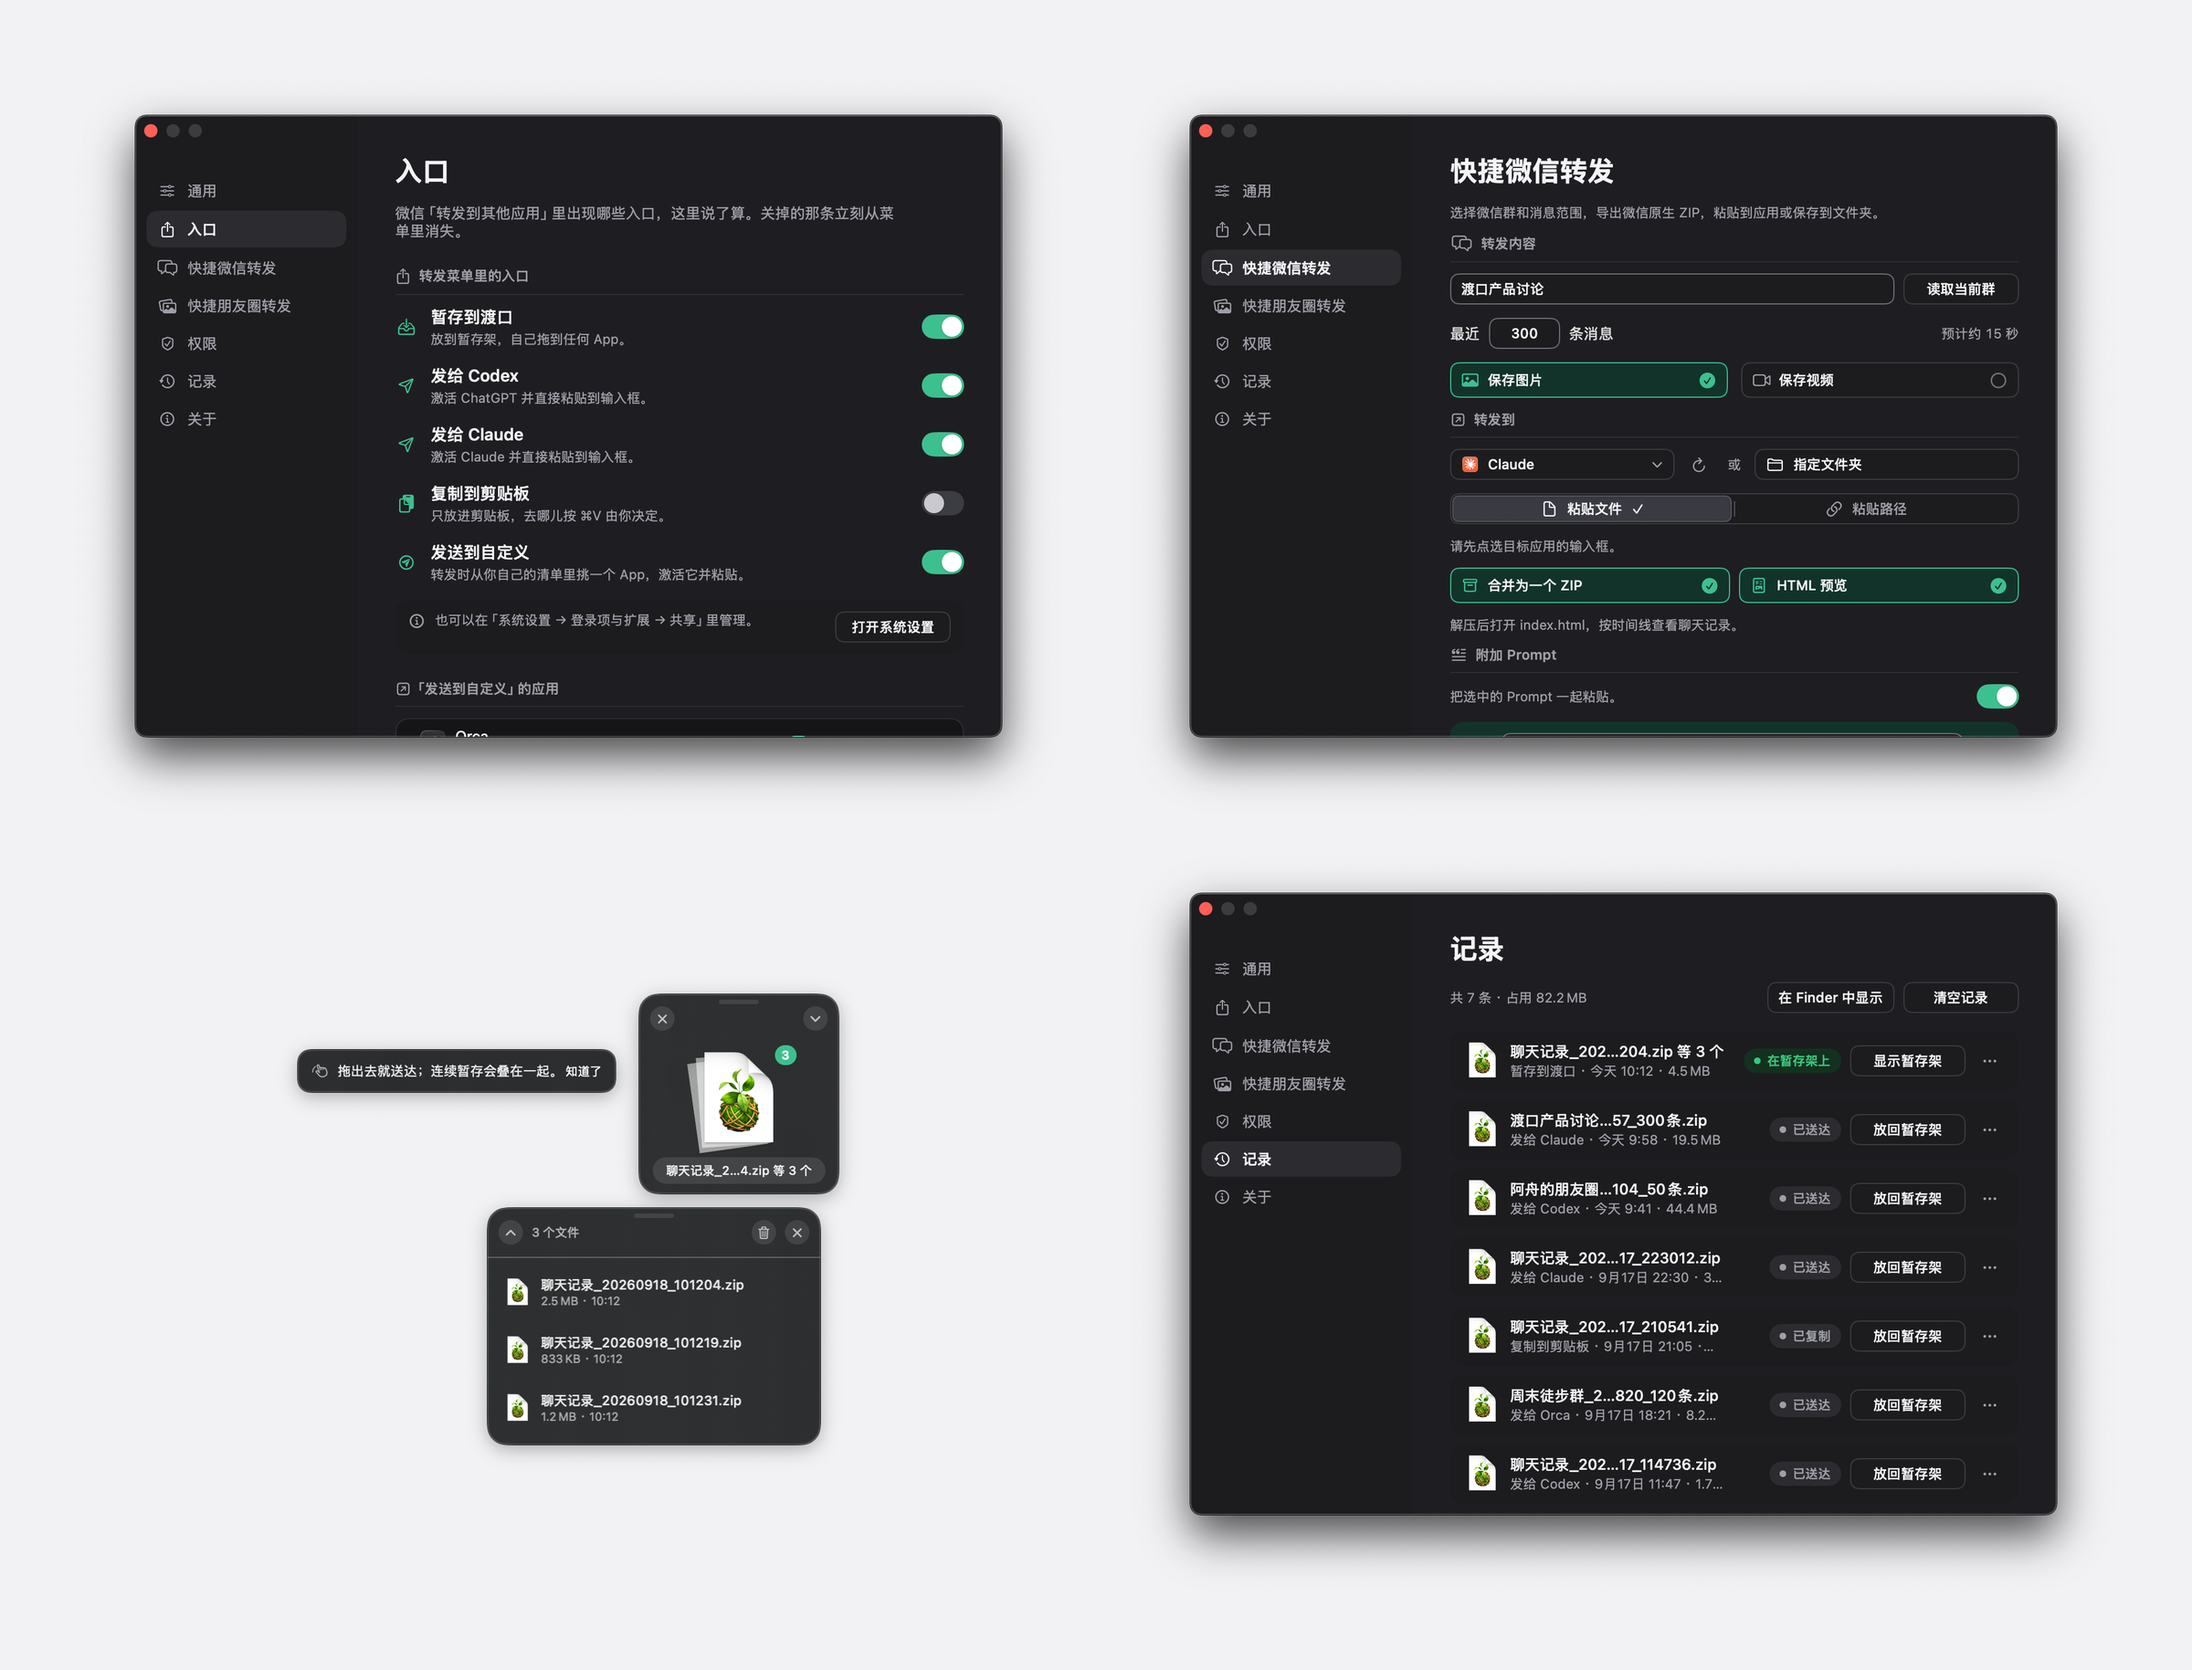
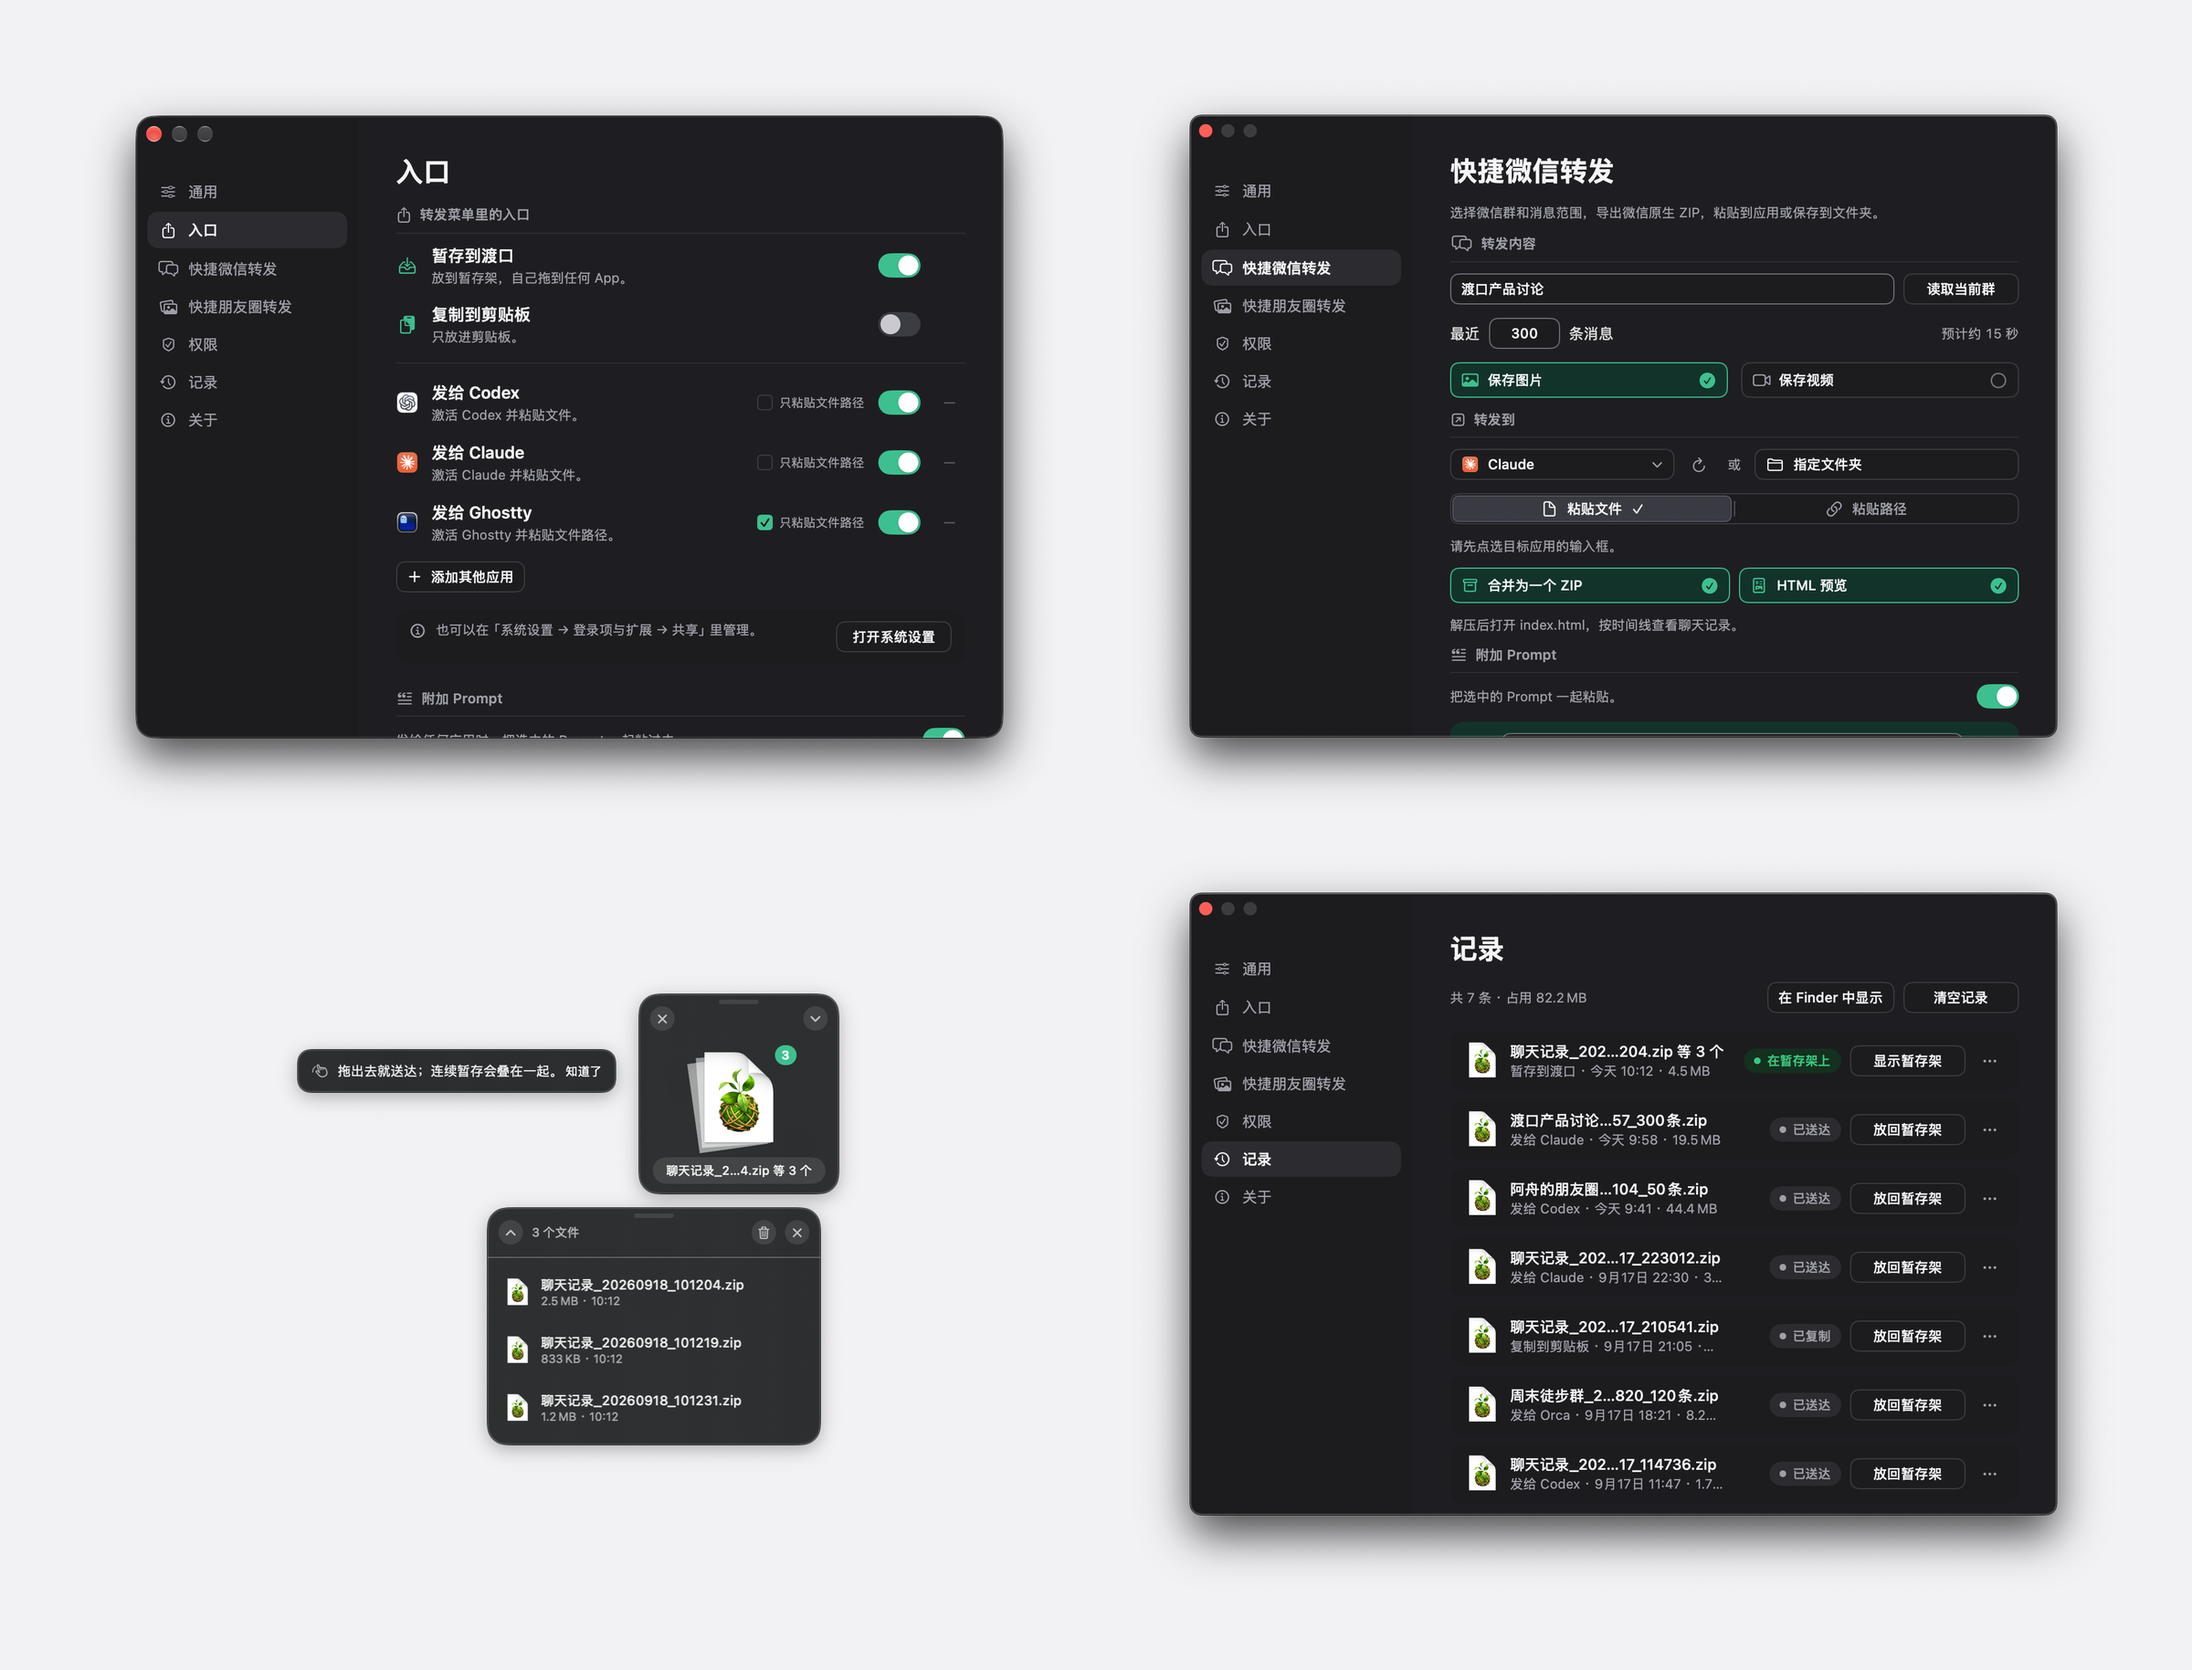
Show one entry per app in the README and the overview's 入口 pane

diff --git a/README_EN.md b/README_EN.md
@@ -13,7 +13,7 @@
 </div>
 
 <p align="center">
-  <img src="Resources/Screenshots/wechat-forward.png" width="720" alt="WeChat 4.1.13's forward-to-other-apps menu, with Dukou's five entries listed beside the system share services" />
+  <img src="Resources/Screenshots/wechat-forward.png" width="720" alt="WeChat 4.1.13's forward-to-other-apps menu, with Dukou's entries beside the system share services, each app shown with its own icon" />
 </p>
 
 <p align="center">
@@ -28,26 +28,24 @@
 
 Since WeChat 4.1.13 for macOS, a multi-selection of chat history can be merge-forwarded to third-party apps: WeChat itself packs the text, images and videos into one ZIP with a time-ordered TXT transcript. That is exactly what an AI agent needs to read a complete stream of a conversation, and it involves no database and no keys: the content only ever travels as the file WeChat exported.
 
-The catch is that the "Other Apps" list in the forward window ("Forward to Other Apps" in WeChat 4.1.13) only shows apps that ship a share extension. Finder is not there, nor Terminal, nor Codex or Claude. Dukou puts them there. The forward menu gains five entries, and each one goes straight where it says:
+The catch is that the "Other Apps" list in the forward window ("Forward to Other Apps" in WeChat 4.1.13) only shows apps that ship a share extension. Finder is not there, nor Terminal, nor Codex or Claude. Dukou puts them there, and each entry goes straight where it says:
 
 | Entry | What it does |
 |---|---|
 | **Stash in Dukou** | Lands on the shelf in a corner of the screen; drag from the icon into any app |
-| **Send to Codex** | Brings ChatGPT forward and pastes into its input |
-| **Send to Claude** | Brings Claude forward and pastes into its input |
 | **Copy to Clipboard** | Just puts it on the clipboard; the ⌘V is yours |
-| **Send to Custom** | Your own list of apps: one app just goes, two or more get a small picker card next to the pointer |
+| **Send to Codex / Claude / any app** | One entry per app, with the app's own icon: brings it forward and pastes into its input. Codex and Claude are there from the start; add others in Settings → Entries |
 
 One step further, Quick WeChat forward and Quick Moments forward (experimental) do the selecting, exporting and pasting for you — just name what you want and how much of it.
 
 ## Features
 
 - **No interface in the extension.** Pick an entry and the files just land; nothing appears on screen.
-- **Entries you can switch off.** Each entry is a separate system extension, toggled in Settings → Entries.
+- **Entries you can switch off.** Each entry is a separate system extension, toggled in Settings → Entries; removing an app removes its entry from the system too.
 - **A shelf.** A floating square in a screen corner that never takes focus; drag out and it is consumed, the files move to History.
 - **History that cleans itself.** Batches older than the retention window (7 days by default) go to the Trash and can be put back on the shelf.
-- **Send to any app.** Keep your own list under Send to Custom; terminal-like apps can receive file paths instead. Tick Direct entry and the app gets its own "Send to …" item, with its icon, in WeChat's menu.
-- **Attached prompt.** A prompt of your own is pasted before the files when sending to Codex, Claude or a custom app; keep up to three.
+- **Send to any app.** Add an app in Settings → Entries and WeChat's menu gains a "Send to …" item with its icon; terminal-like apps can receive file paths instead.
+- **Attached prompt.** A prompt of your own is pasted before the files when sending to any app; keep up to three.
 - **Failures have a way out.** App missing, permission missing or app not in front: the files are already on the clipboard and can go to the shelf.
 - **Quick WeChat forward (experimental).** Name a group and a count; Dukou selects and merge-forwards in WeChat, then pastes the ZIP into the current app or saves it to a folder. Photos and videos are optional, batches past 100 can be combined into one ZIP, and ESC stops it.
 - **Offline HTML preview.** An `index.html` inside the ZIP for browsing the chat as bubbles in your browser: search, filter by date, view images, play audio and video.

diff --git a/README.md b/README.md
@@ -13,7 +13,7 @@
 </div>
 
 <p align="center">
-  <img src="Resources/Screenshots/wechat-forward.png" width="720" alt="微信 4.1.13 的「转发到其他应用」菜单：Dukou 的五条入口和系统自带的共享服务排在一起" />
+  <img src="Resources/Screenshots/wechat-forward.png" width="720" alt="微信 4.1.13 的「转发到其他应用」菜单：Dukou 的入口和系统自带的共享服务排在一起，发给哪个 App 就显示哪个 App 的图标" />
 </p>
 
 <p align="center">
@@ -28,26 +28,24 @@
 
 macOS 微信 4.1.13 起，多选的聊天记录可以「合并转发」给第三方应用：微信自己把文字、图片和视频打成一个 ZIP，附一份按时间排好的 TXT。这正好是 AI agent 读一段完整信息流需要的东西，而且不碰数据库、不用密钥解密，聊天内容只走微信自己导出的文件。
 
-问题是转发窗口里「其他应用」（微信 4.1.13 叫「转发到其他应用」）的列表里只有装了共享扩展的 App：Finder、终端、Codex、Claude 都不在。Dukou 把它们补进去，转发菜单里多出五条入口，点哪条就直接到哪：
+问题是转发窗口里「其他应用」（微信 4.1.13 叫「转发到其他应用」）的列表里只有装了共享扩展的 App：Finder、终端、Codex、Claude 都不在。Dukou 把它们补进去，点哪条就直接到哪：
 
 | 入口 | 做什么 |
 |---|---|
 | **暂存到渡口** | 放到屏幕角落的暂存架，从图标拖进任何 App |
-| **发给 Codex** | 激活 ChatGPT 并粘贴到输入框 |
-| **发给 Claude** | 激活 Claude 并粘贴到输入框 |
 | **复制到剪贴板** | 只放进剪贴板，⌘V 由你决定 |
-| **发送到自定义** | 你自己的应用清单：一个直接发过去，多个才在鼠标旁边弹一张小卡片让你选 |
+| **发给 Codex / Claude / 任何 App** | 每个 App 一条入口，带它自己的图标：激活它并粘贴到输入框。Codex 和 Claude 默认就有，其他的在「设置 → 入口」里添加 |
 
 再往前一步，「快捷微信转发」和「快捷朋友圈转发」（实验）按你填的群名和条数自动完成多选、导出和粘贴，不用自己动手。
 
 ## 功能
 
 - **扩展没有界面**：点完入口不出现任何面板，文件直接落盘。
-- **入口可开关**：每条入口是独立的系统扩展，在「设置 → 入口」里逐条开关。
+- **入口可开关**：每条入口是独立的系统扩展，在「设置 → 入口」里逐条开关；删掉的 App，入口也从系统里一起删掉。
 - **暂存架**：不抢焦点的浮动方块，常驻屏幕角落；拖出去被接受就消化，文件转进「记录」。
 - **记录到期自清**：超过保留时长（默认 7 天）自动移到废纸篓，随时能放回暂存架。
-- **发到任何 App**：「发送到自定义」的清单自己维护，终端类应用可以只粘贴文件路径；勾上「单独入口」，微信菜单里就多一个带它图标的「发给 xxx」。
-- **附加 Prompt**：发给 Codex / Claude / 自定义应用时先粘一条 Prompt，最多保存 3 条。
+- **发到任何 App**：在「设置 → 入口」里添加 App，微信菜单里就多一条带它图标的「发给 xxx」；终端类应用可以只粘贴文件路径。
+- **附加 Prompt**：发给任何 App 时先粘一条 Prompt，最多保存 3 条。
 - **失败有兜底**：目标没装、没给权限、没到前台，文件一定已在剪贴板，并可放到暂存架。
 - **快捷微信转发（实验）**：填群名和条数，Dukou 在微信里多选、合并转发，ZIP 粘给当前 App 或存进文件夹；图片和视频可以不带，超过 100 条自动分批，可合并成一个 ZIP，按 ESC 中断。
 - **HTML 离线预览**：ZIP 里附一个 `index.html`，解压后在浏览器里按聊天气泡翻阅，可搜索、按日期查看、看图片和音视频。
